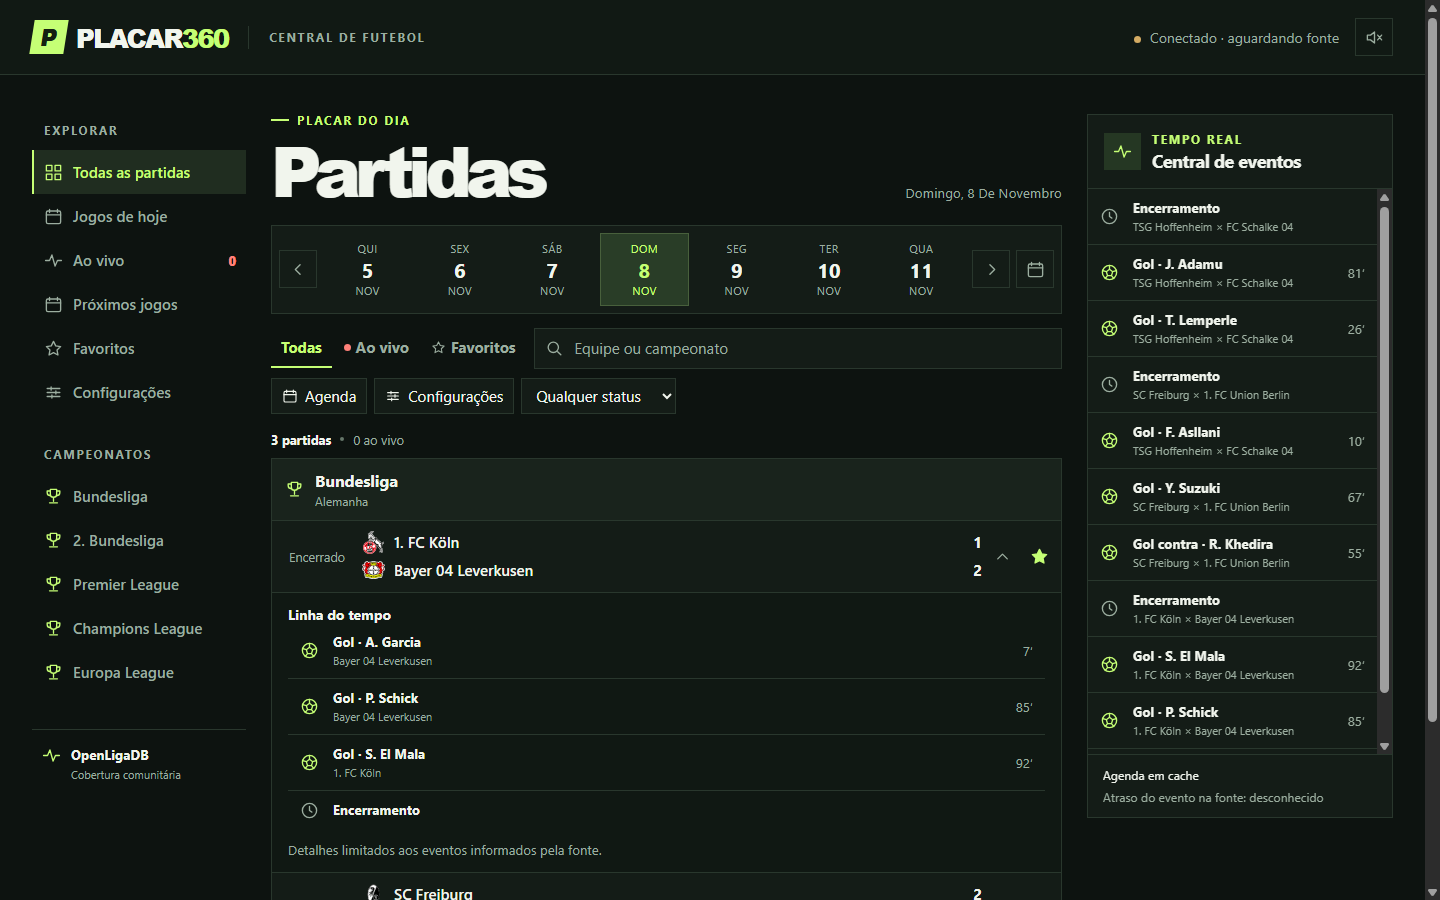
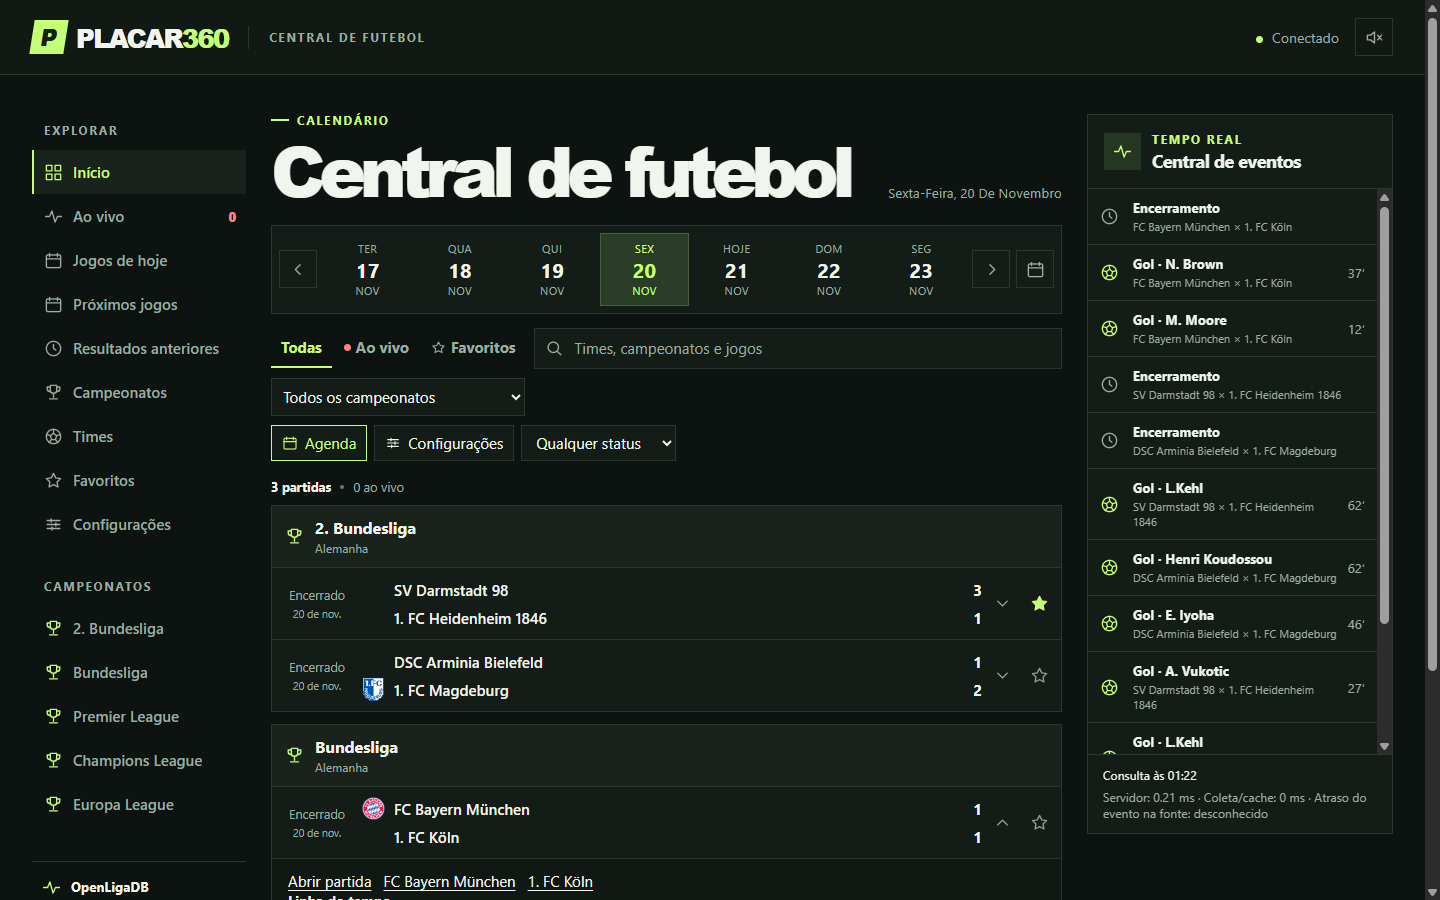
docs: document platform navigation and verified coverage

diff --git a/README.md b/README.md
@@ -1,6 +1,6 @@
 # Placar360
 
-O Placar360 é uma central de futebol em português para acompanhar partidas e consultar o calendário sem sair do placar. A interface atende desktop e celular e apresenta datas e horários de Brasília.
+O Placar360 é uma central de futebol em português para acompanhar placares, consultar resultados e explorar o calendário. A interface tem navegação lateral no desktop e barra inferior no celular. As datas e os horários seguem o fuso de Brasília.
 
 ## Como executar
 
@@ -14,10 +14,12 @@ Abra [http://127.0.0.1:3600/](http://127.0.0.1:3600/). A aplicação escuta na i
 
 ## O que é possível acompanhar
 
-- Consulte partidas por data, campeonato, equipe, status e favoritos.
-- Use a agenda para consultar próximas partidas de um clube e abra a página de um campeonato pelo seu nome. Nela é possível filtrar a temporada por rodada, quando a fonte disponibiliza essa informação.
-- Abra o placar de uma partida para ver sua linha do tempo. O painel de eventos reúne os acontecimentos informados para o dia selecionado.
-- Ative o som de gol no cabeçalho. Em Configurações, escolha entre os temas claro e escuro e entre as visualizações padrão e compacta. Favoritos, tema e densidade ficam neste navegador.
+- A tela inicial reúne jogos do dia, partidas ao vivo, próximos jogos e resultados recentes. O histórico permite escolher uma data e consultar os resultados dos sete dias até ela.
+- O calendário futuro tem atalhos para amanhã, sete dias e 30 dias. Filtre por campeonato, equipe e status.
+- Na página de um campeonato, selecione a temporada, abra a aba Jogos para percorrer o calendário completo e filtre por rodada ou fase. As abas Classificação e Estatísticas exibem tabelas calculadas a partir da agenda disponível.
+- Expanda um jogo para consultar os acontecimentos e abrir sua página. Ela mostra local, árbitro, estatísticas, escalações, campo tático e confrontos da temporada quando os dados existem.
+- Abra um perfil de time pelo nome da equipe. Consulte sua agenda na competição selecionada, próximas partidas e os resultados usados para mostrar a forma recente.
+- Pesquise equipes, campeonatos e partidas na janela carregada. Salve links de partidas, times e campeonatos em Favoritos. Os links e as preferências de tema e densidade ficam no navegador. O cabeçalho permite ativar som de gol.
 
 ## Fontes avaliadas
 
@@ -48,7 +50,7 @@ Preencha a chave para ativar a integração. O servidor usa a mesma cota para pl
 
 O servidor compartilha os dados por dia entre conexões e prioriza as consultas de partidas em andamento. A OpenLigaDB recebe consultas da rodada ativa em intervalos de pelo menos 30 segundos e a temporada é armazenada em disco. Com a API-Football, o servidor alterna consultas por data e por identificadores de partidas próximas do início ou em andamento, quando o volume cabe em uma consulta.
 
-O navegador recebe um estado inicial por Server-Sent Events e aplica inclusões, alterações e remoções de partidas sem recarregar a página. Uma reconexão recebe outro estado completo. Se a fonte falhar, o último estado disponível pode continuar visível enquanto o servidor adia as próximas tentativas. A agenda usa a fonte selecionada e combina seus resultados com o estado mais recente dos placares abertos.
+O navegador recebe um estado inicial por Server-Sent Events e aplica inclusões, alterações e remoções de partidas sem recarregar a página. Uma reconexão recebe outro estado completo. Se a fonte falhar, o último estado disponível pode continuar visível enquanto o servidor adia as próximas tentativas. A agenda combina os resultados da fonte com o estado mais recente dos placares abertos. As temporadas são carregadas sob demanda e as consultas idênticas podem compartilhar o resultado. Detalhes de partidas encerradas na API-Football ficam em memória por até um dia, sujeitos ao limite do cache.
 
 O painel informa tempos de coleta, processamento e entrega local. A resposta HTTP da fonte mede somente a consulta. O atraso entre o acontecimento em campo e sua disponibilização pela fonte é desconhecido.
 
@@ -58,12 +60,13 @@ O painel informa tempos de coleta, processamento e entrega local. A resposta HTT
 - `server.js` configura o cache, as rotas HTTP e o canal SSE.
 - `public/` contém a interface.
 - `test/` e `browser-check.mjs` verificam a normalização e os fluxos da aplicação.
+- `docs/backlog.md` registra a auditoria e as entregas incrementais.
 
 ## Testes
 
-Execute `npm test` para verificar fuso, normalização, deduplicação, correções, cache do calendário e cota compartilhada. O teste de leitura de uma temporada real usa o cache local se disponível.
+Execute `npm test` para verificar fuso, normalização, deduplicação, correções, cache de agenda e detalhes históricos, cota compartilhada e falhas da fonte. O teste de leitura de uma temporada real usa o cache local se disponível.
 
-Com o servidor aberto e um Chrome isolado com depuração local na porta 9338, execute `node browser-check.mjs`. O script verifica navegação, histórico, calendário por rodada, busca, favoritos, som, temas, densidade, larguras móveis, reconexão do SSE e consultas locais concorrentes. Defina `APP_URL` para testar em outra porta. As capturas são gravadas no diretório temporário.
+Com o servidor aberto e um Chrome isolado com depuração local na porta 9338, execute `node browser-check.mjs`. O roteiro usa o cache real de Bundesliga e verifica navegação, histórico, detalhes, perfis, calendário por rodada e por intervalo, busca, favoritos, som, temas, densidade, larguras móveis, reconexão do SSE e consultas locais concorrentes. Defina `APP_URL` para testar em outra porta. As capturas são gravadas no diretório temporário.
 
 ## Capturas
 
@@ -73,4 +76,5 @@ Com o servidor aberto e um Chrome isolado com depuração local na porta 9338, e
 
 - A cobertura padrão depende da edição comunitária. Jogos sem atualização de placar e sem uma fase informada podem continuar aparecendo como agendados.
 - A API-Football exige uma chave para confirmar cobertura, temporadas acessíveis e eventos de cada competição. A integração seleciona uma fonte por instância e usa o último estado disponível em caso de falha.
-- O calendário geral consulta uma janela em torno da data selecionada. A página de competição oferece a temporada e permite explorar suas rodadas.
+- A classificação calculada pode divergir da oficial devido a regras de desempate, sanções e cobertura parcial. A artilharia inclui os autores que constam da agenda. O perfil de clube usa a temporada e a competição selecionadas. Elenco completo depende de integração adicional.
+- A busca consulta partidas e times da janela carregada. Nas competições eliminatórias, os filtros seguem os agrupamentos publicados pelo fornecedor. A disponibilidade de jogos de ida e volta depende da estrutura do calendário da fonte.

diff --git a/docs/backlog.md b/docs/backlog.md
@@ -2,13 +2,13 @@
 
 A base inclui placar por data, SSE com reconexão, eventos normalizados, agenda e preferências locais. A agenda pública lê temporadas já carregadas e a interface restringe a lista do campeonato a uma janela curta por padrão. A cobertura autenticada depende da chave, do plano e da cota compartilhada.
 
-| ID | Prioridade | Dependência | Entrega e aceite | Status inicial |
+| ID | Prioridade | Dependência | Entrega e aceite | Status |
 | --- | --- | --- | --- | --- |
 | 001 | Alta | — | Auditar a base e registrar o fluxo de entrega | Concluída |
-| 002 | Alta | 001 | Carregar calendários da fonte por temporada e servir janelas validadas de até 30 dias | A fazer |
-| 003 | Alta | 002 | Navegar campeonatos por temporada, fase e status, com acesso a toda a agenda | A fazer |
-| 004 | Alta | 002 | Abrir detalhes de partidas e perfis de times por endereço próprio | A fazer |
-| 005 | Alta | 003, 004 | Integrar início, calendário futuro, histórico, busca e favoritos nas duas larguras | A fazer |
-| 006 | Alta | 005 | Verificar dados, testes e interface no navegador e atualizar o README | A fazer |
+| 002 | Alta | 001 | Carregar calendários da fonte por temporada e servir janelas validadas de até 30 dias | Implementada |
+| 003 | Alta | 002 | Navegar campeonatos por temporada, fase e status, com acesso a toda a agenda | Implementada |
+| 004 | Alta | 002 | Abrir detalhes de partidas e perfis de times por endereço próprio | Implementada |
+| 005 | Alta | 003, 004 | Integrar início, calendário futuro, histórico, busca e favoritos nas duas larguras | Implementada |
+| 006 | Alta | 005 | Verificar dados, testes e interface no navegador e atualizar o README | Validada com OpenLigaDB |
 
 A recuperação de placares continua compartilhada por data via SSE. As rotas de consulta devem compartilhar as restrições da fonte. A publicação depende de um remoto GitHub e de uma sessão autenticada. As branches locais devem conservar os commits de cada entrega.
